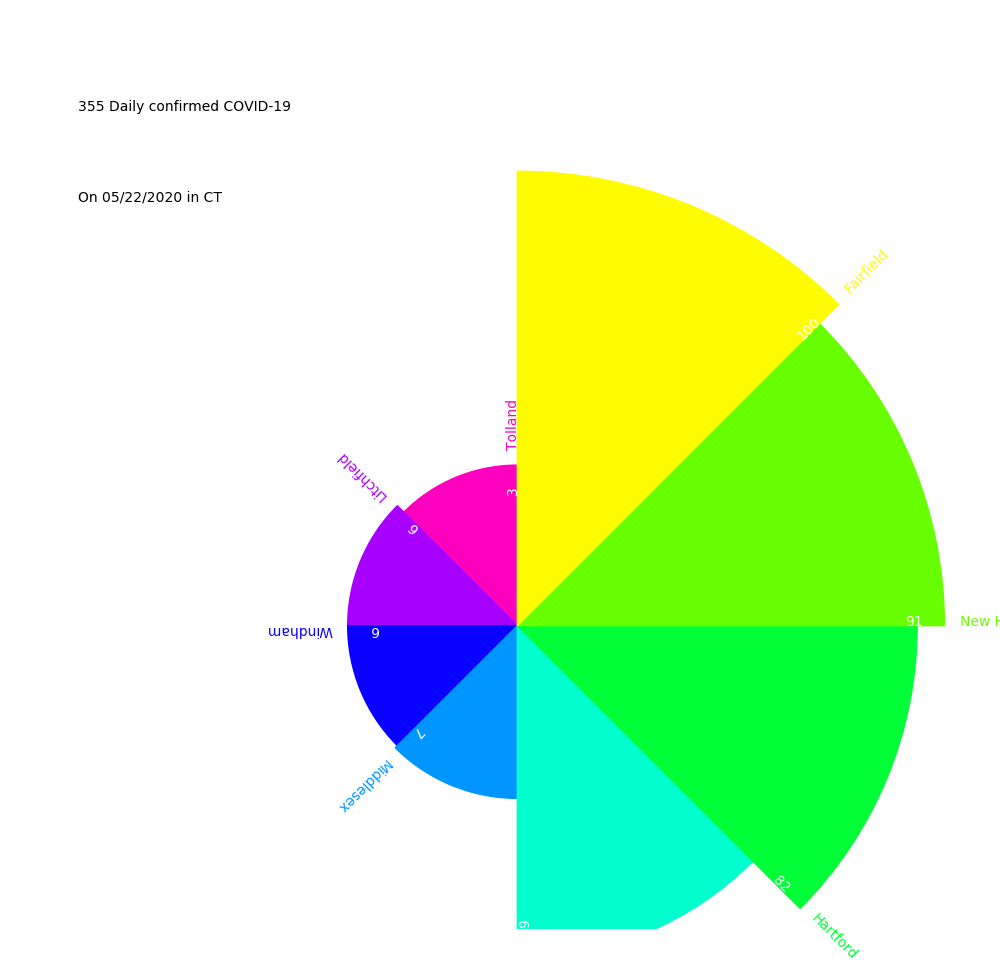
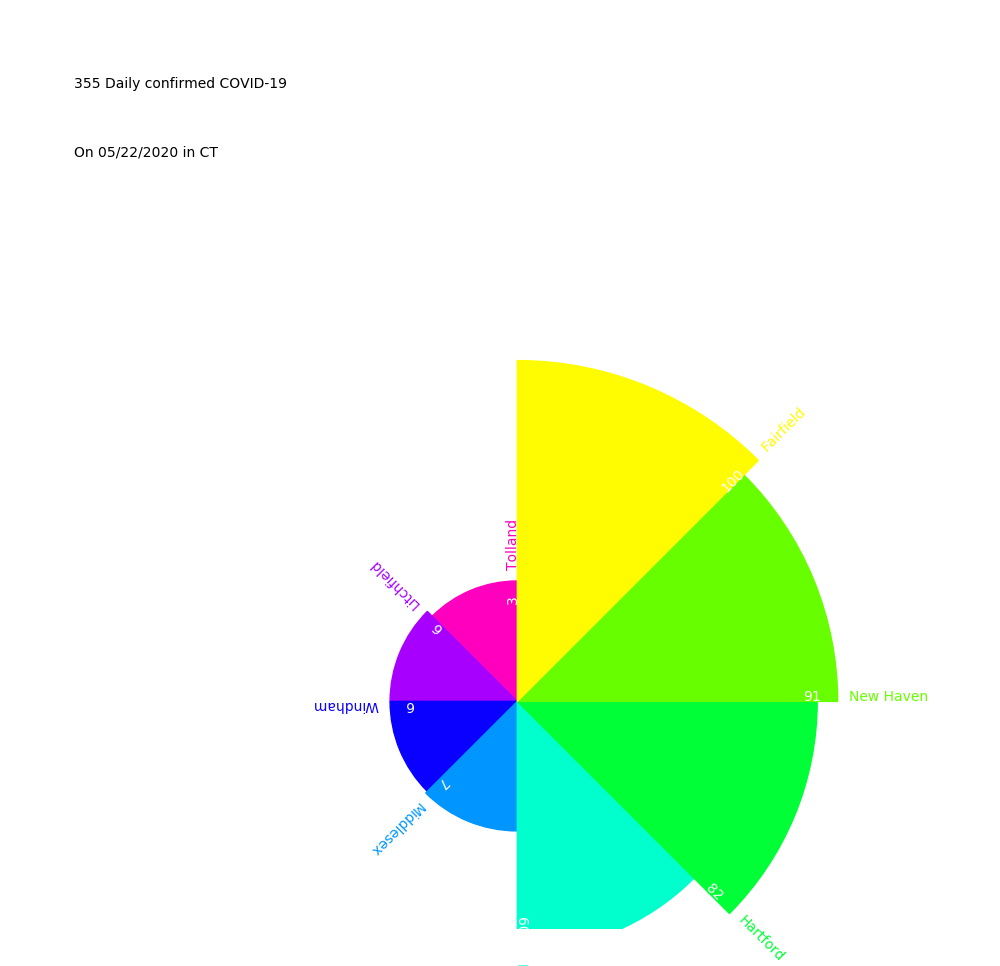
update

diff --git a/rainbowviz21.py b/rainbowviz21.py
@@ -98,7 +98,7 @@ class rainbowViz(object):
             if('County' in a_case[0]): continue
             n_total += int(a_case[col])
 
-        l_max_v += 100 + 50  # base 50*2 + name 25*2
+        l_max_v += 100  # base 50*2 + name 25*2
         center_y = -(l_max_v/2 - 75)
         l_max_v = (int(l_max_v / 50.0+1) * 50) / 2
         # sort list
